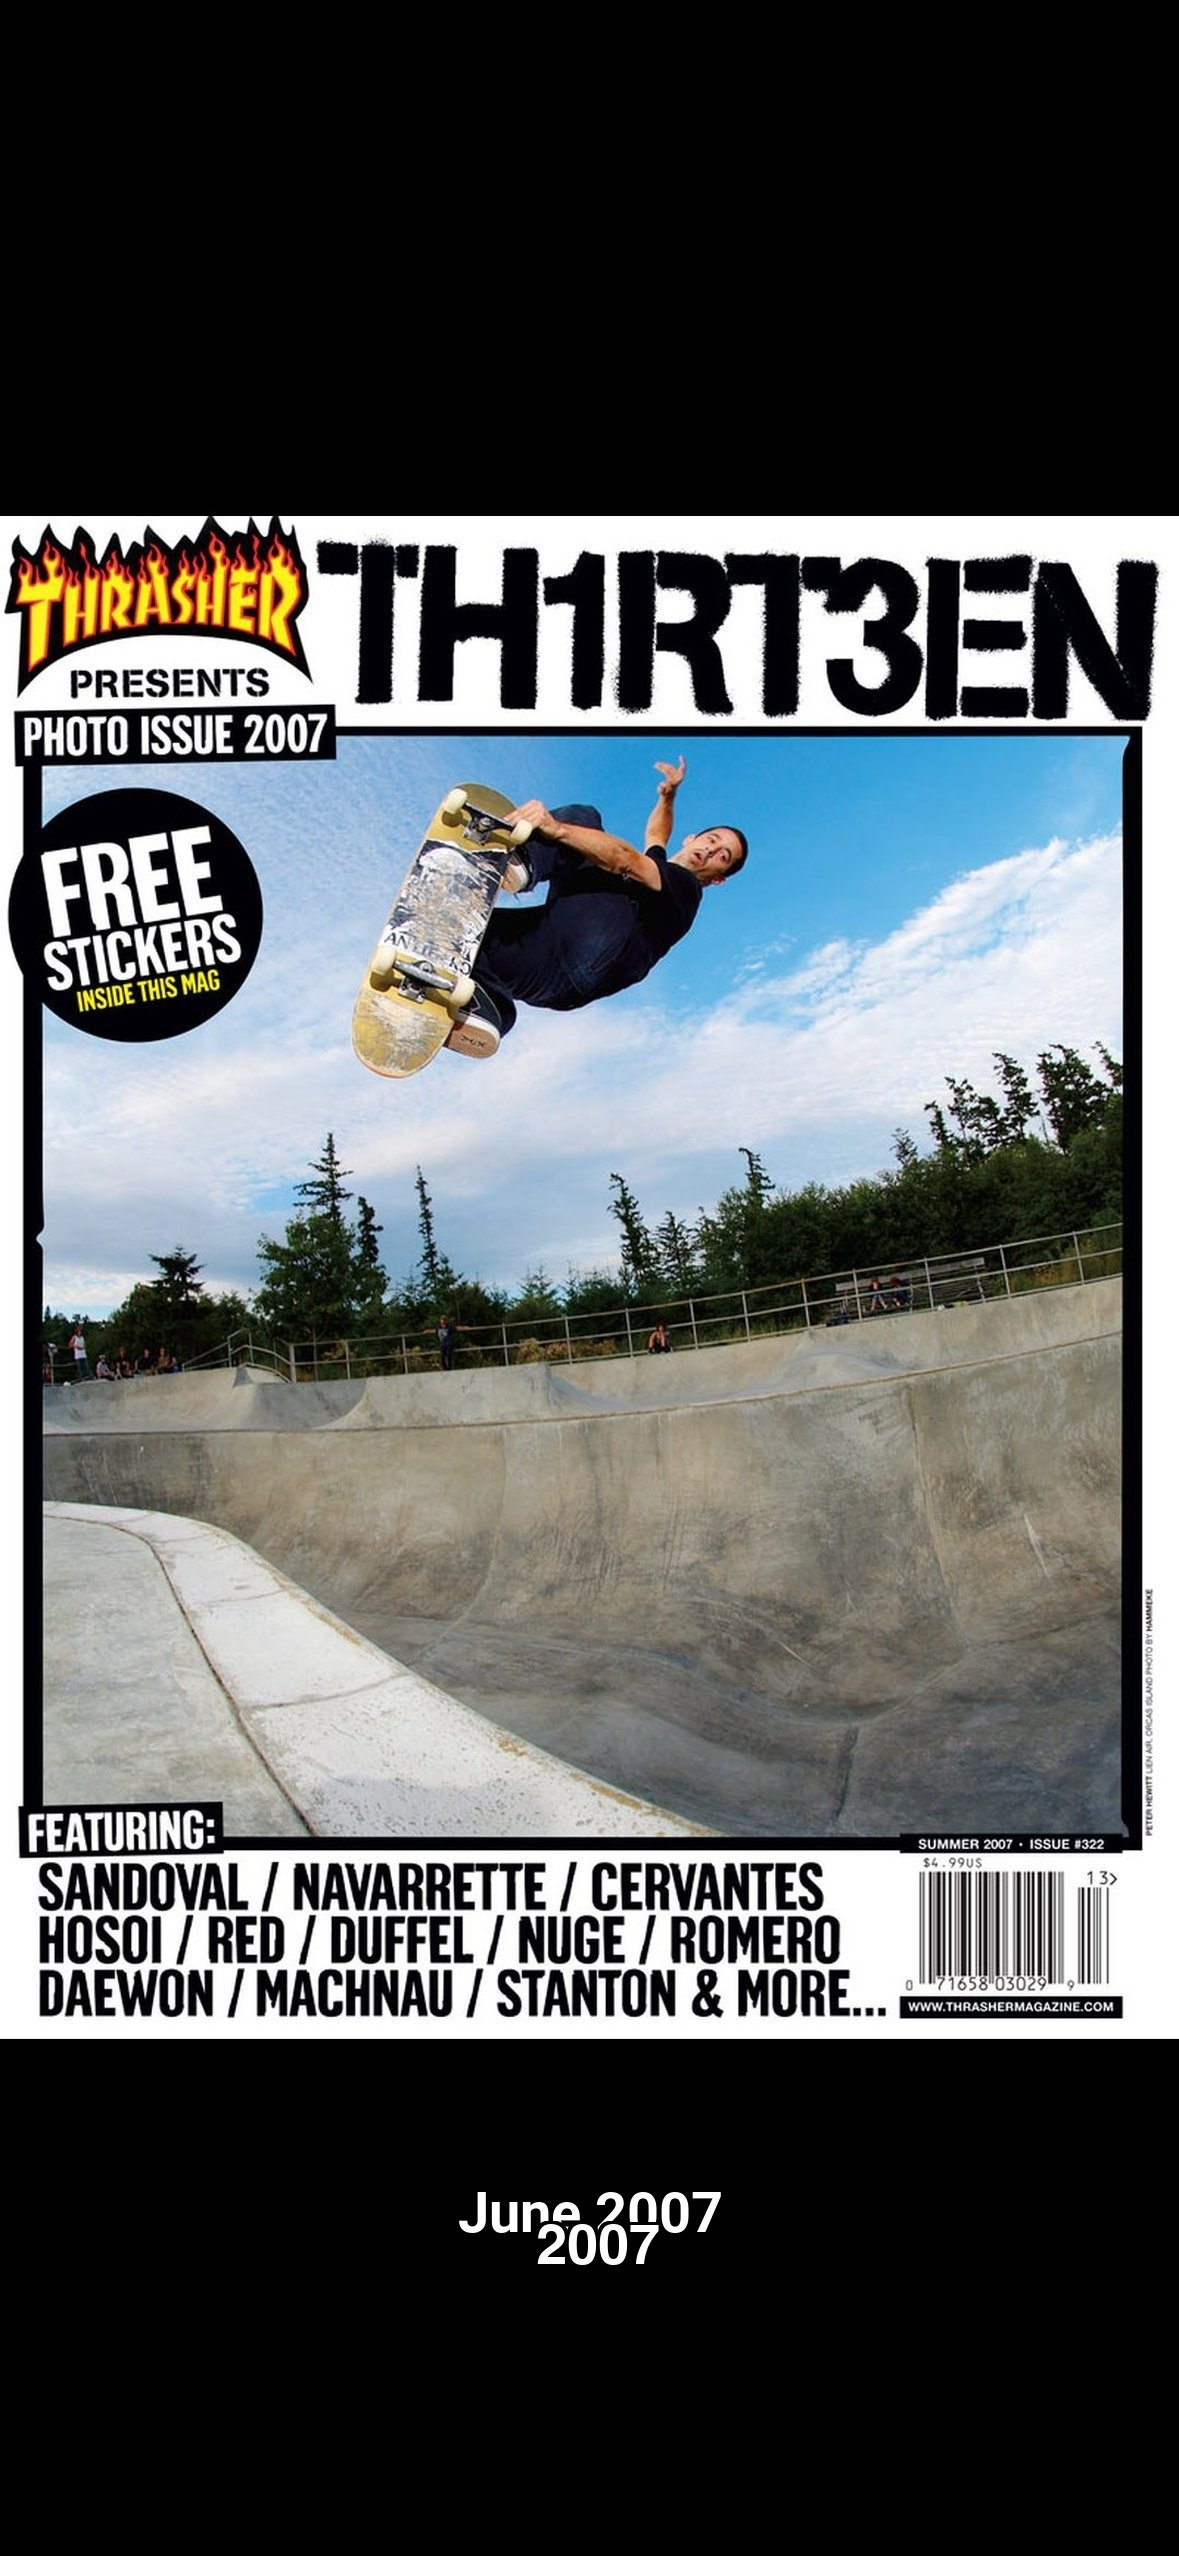
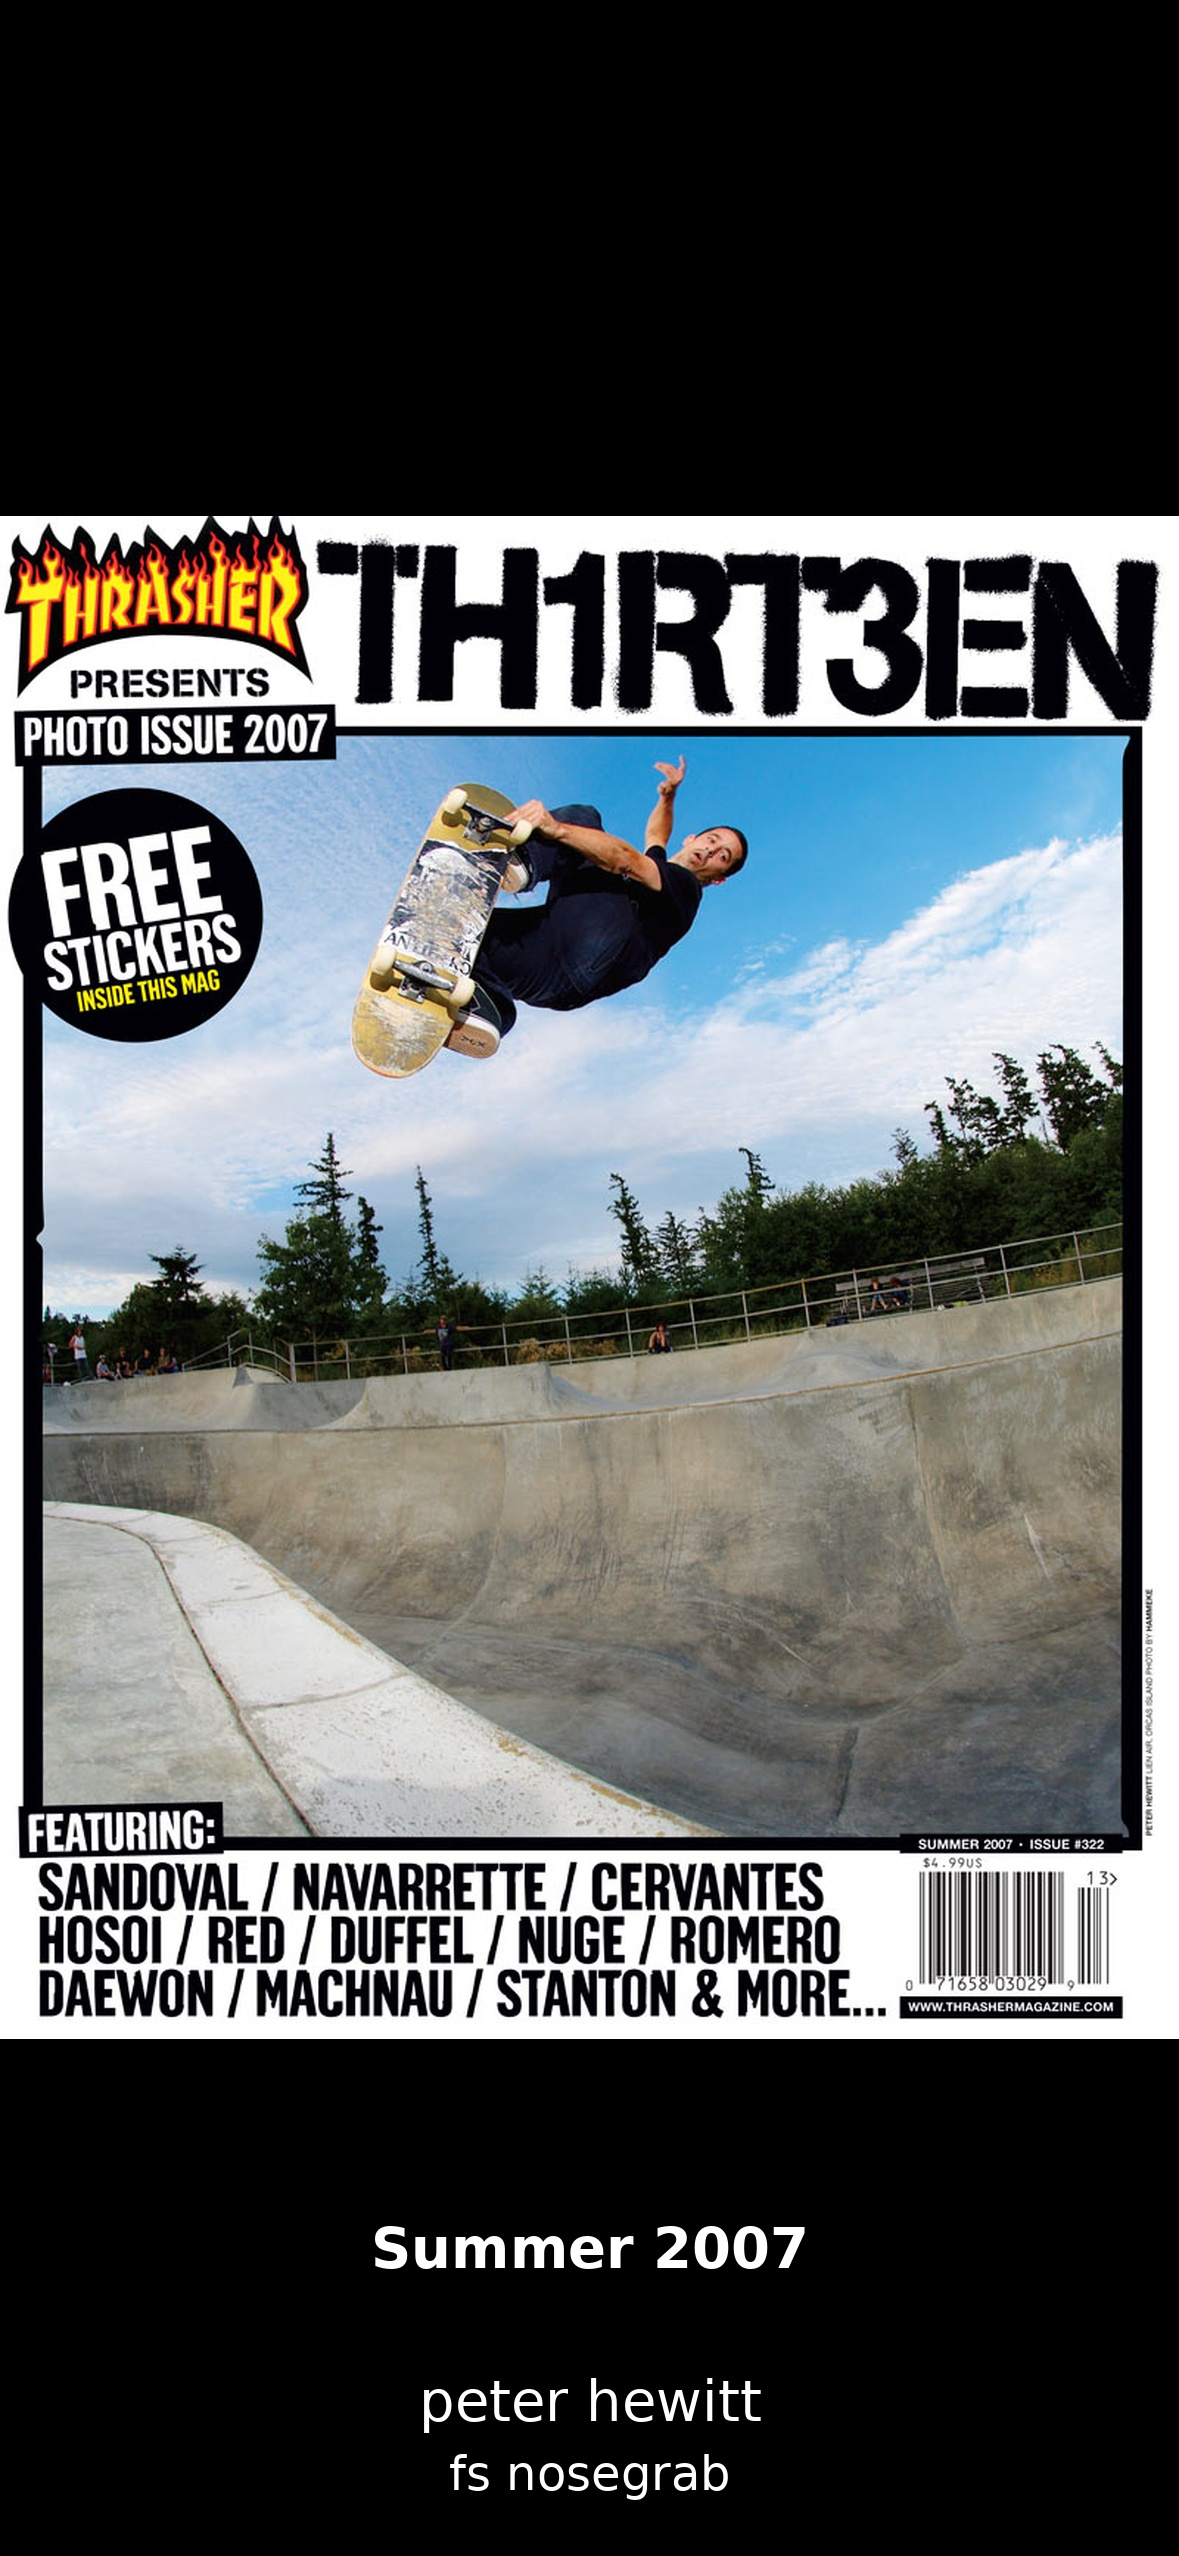
Correct cover credits that were paired with the wrong issue
Multi-cover months had one skater's line copied onto every variant, and the 2002-2009 Thirteen issues were in the feed with no name. Match each file to its cover, use the printed trick where it differs from 4ply, and drop the duplicate August 2003 scan.

diff --git a/scripts/apply_text_overlays_all.py b/scripts/apply_text_overlays_all.py
@@ -35,6 +35,16 @@ class TextOverlayApplier:
                 month = self.month_to_number(row['month'])
                 if month:
                     key = f"{year}_{month:02d}"
+                    # A second cover in the same month (or a 13th issue) must not
+                    # replace the calendar issue. Variants are assigned by hand
+                    # in shortcuts_text_overlay_covers.json.
+                    if key in fourply_data:
+                        kept = fourply_data[key]
+                        print(
+                            f"skip duplicate {key}: #{row['issueno']} {row['skater']}"
+                            f" (keeping #{kept['issueno']} {kept['skater']})"
+                        )
+                        continue
                     fourply_data[key] = row
         
         print(f"Loaded {len(fourply_data)} entries from 4ply CSV")

diff --git a/README.md b/README.md
@@ -11,7 +11,7 @@ This repository is kept private to prevent malicious actors from hijacking the i
 
 ## 🎯 What This Project Does
 
-This project provides **565 Thrasher Magazine covers** from 1981-2026 that can be automatically set as iPhone lock screens. Each cover includes:
+This project provides **564 Thrasher Magazine covers** from 1981-2026 that can be automatically set as iPhone lock screens. Each cover includes:
 
 - 📅 **Date** (month and year)
 - 👤 **Skater name** 
@@ -20,7 +20,7 @@ This project provides **565 Thrasher Magazine covers** from 1981-2026 that can b
 
 ## 📊 Data Sources
 
-The complete collection of 565 covers was built by scraping:
+The complete collection of 564 covers was built by scraping:
 - **[Thrasher Magazine website](https://www.thrashermagazine.com/articles/magazine/)** - Current covers from 1981-present
 - **[4Ply Magazine archive](https://archive.4plymag.com)** - Metadata from 1981-2019
 - Manual metadata extraction from cover filenames and descriptions
@@ -65,7 +65,7 @@ The complete collection of 565 covers was built by scraping:
 
 ## 🎨 What You Get
 
-- **565 covers** spanning 46 years (1981-2026)
+- **564 covers** spanning 46 years (1981-2026)
 - **Complete coverage** - all 12 months for most years
 - **Perfect iPhone sizing** - no cropping or stretching
 - **Rich metadata** - know the skater, trick, and location
@@ -102,7 +102,7 @@ Choose which details to display (date, skater, trick, location).
 - They should look crisp on any iPhone model
 
 ### Want different covers?
-- The shortcut randomly picks from 565 options
+- The shortcut randomly picks from 564 options
 - Run it multiple times to see different covers
 
 ### Automation not running?
